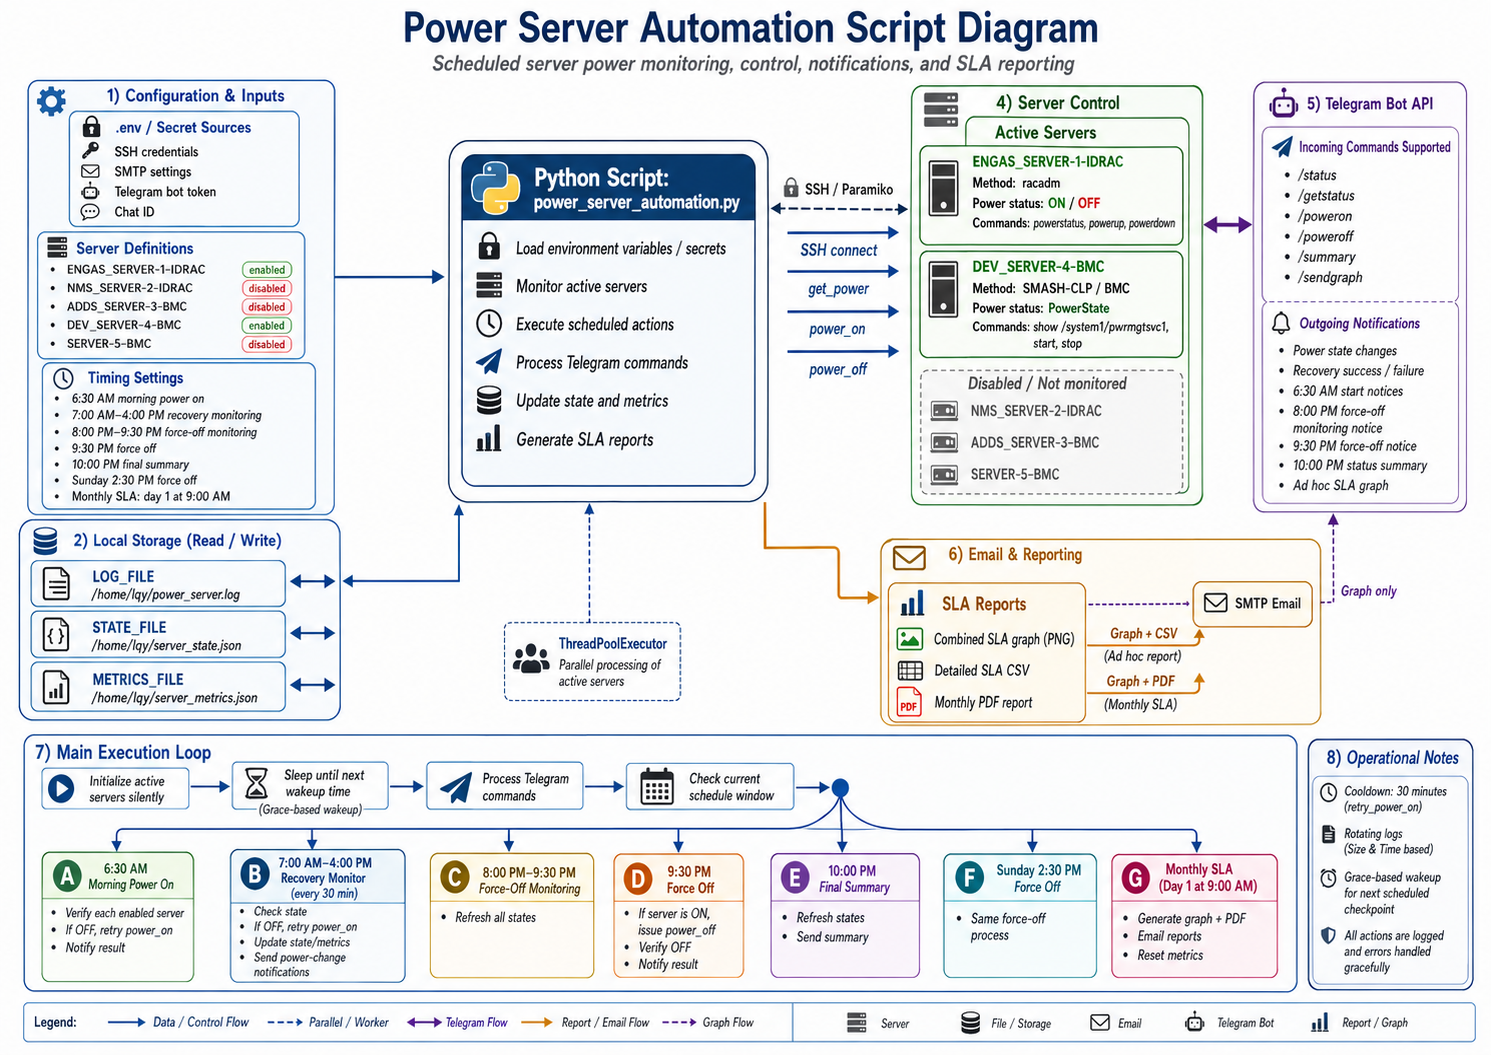
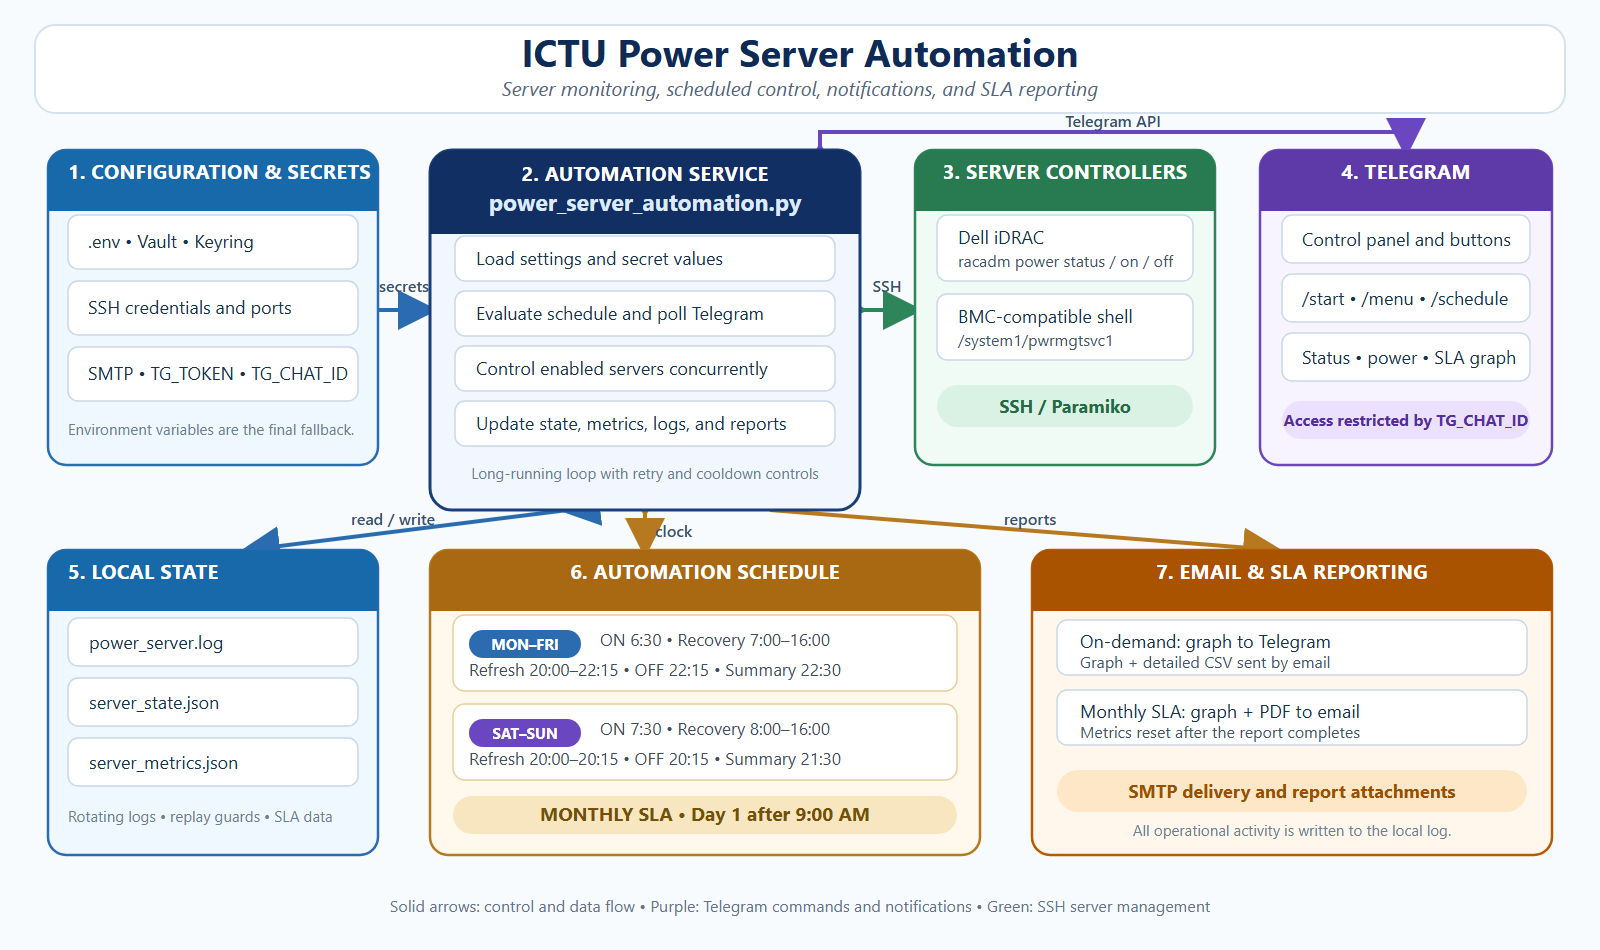
fix minor issues

diff --git a/README.md b/README.md
@@ -59,6 +59,12 @@ flowchart LR
     Reports -->|Send| SMTP
 ```
 
+### Full system diagram
+
+![ICTU Power Server Automation full system diagram](SystemArchitectureDiagram.png)
+
+*Caption: Source-aligned overview of the configuration, automation service, SSH controller flow, Telegram operations, persistent state, schedule, and SLA reporting. The PNG is rendered from the editable [SystemArchitectureDiagram.svg](SystemArchitectureDiagram.svg) source.*
+
 The service is the control point: it reads the configured secrets, evaluates the current local time, communicates with enabled server controllers over SSH, persists operational state, and sends operator-facing results through Telegram and email.
 
 ## Workflow
@@ -120,6 +126,8 @@ One-time scheduled actions are recorded in the state file so they run no more th
 ├── power_server_automation.py       # Main long-running service
 ├── example_env.env                  # Safe configuration template
 ├── README.md                        # GitHub documentation
+├── SystemArchitectureDiagram.png    # Rendered architecture visual used by the README
+├── SystemArchitectureDiagram.svg    # Editable source for the architecture visual
 └── docs/
     └── telegram-control-panel.svg   # README Telegram UI visual
 ```
